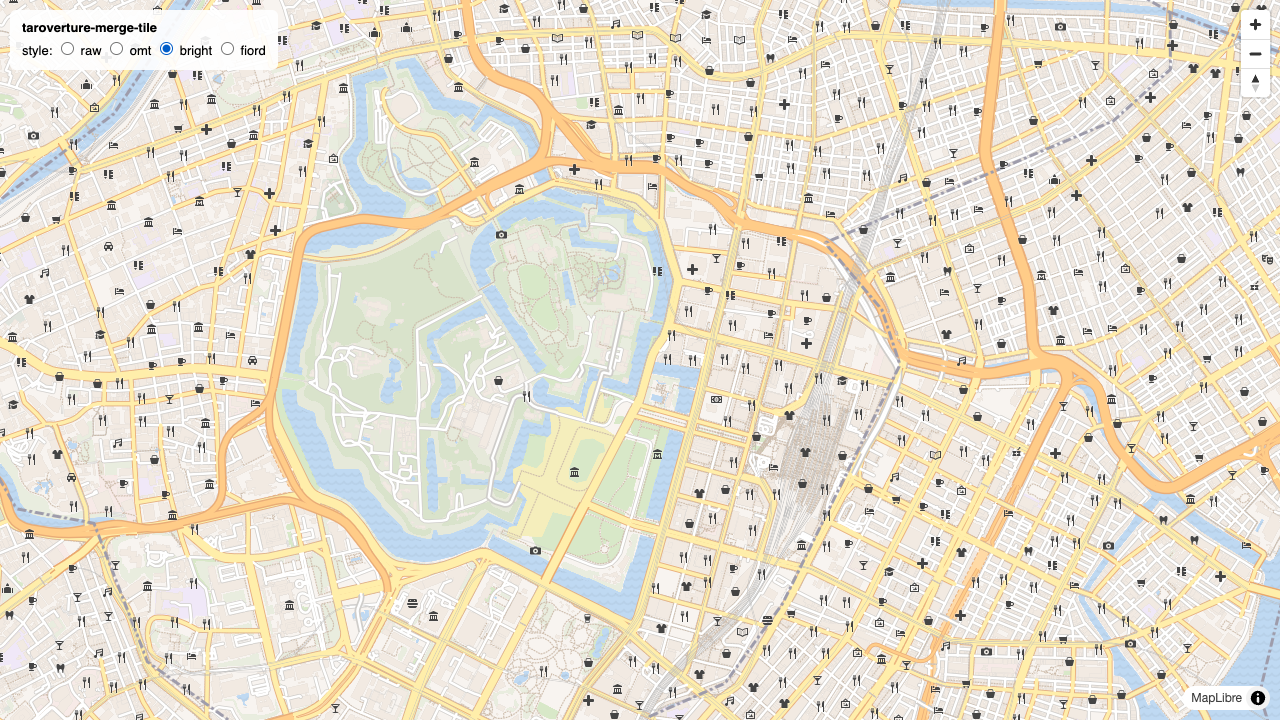
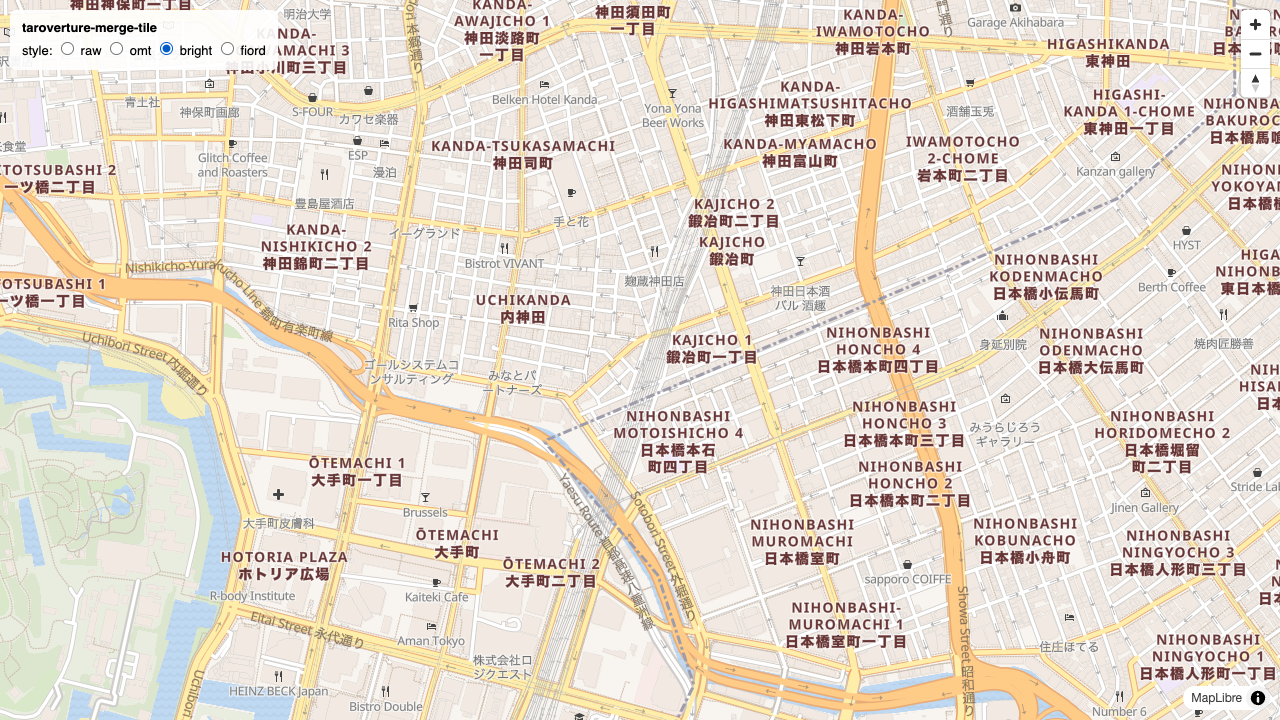
Add name:latin/name:nonlatin for OMT style compatibility
- OSM Bright 等の text-field "{name:latin} {name:nonlatin}" が空に評価され、道路名・地名・POI 名が表示されなかった問題の修正
- name:latin = en -> ja-Latn -> ASCII primary、name:nonlatin = ja -> 非 ASCII primary。namesOf 経由の全レイヤーに効く
- 自前 omt スタイルに road-name レイヤー (symbol-placement: line) を追加
- 既知の制限に追記: Overture segment は交差点単位で細切れのため線ラベルの置ける箇所が少ない (本家 OMT は linemerge 済み)

diff --git a/test/names.test.ts b/test/names.test.ts
@@ -1,0 +1,46 @@
+import { test } from "node:test";
+import assert from "node:assert/strict";
+import { namesOf } from "../src/transform/omt/names.js";
+
+test("namesOf: name:latin は common.en を優先する", () => {
+  const out = namesOf({
+    "@name": "神田警察通り",
+    names: '{"common":{"en":"Kanda Keisatsu Dōri","ja":"神田警察通り"},"primary":"神田警察通り"}',
+  });
+  assert.equal(out?.["name:latin"], "Kanda Keisatsu Dōri");
+  assert.equal(out?.["name:nonlatin"], "神田警察通り");
+});
+
+test("namesOf: en がなければ ja-Latn を name:latin に使う", () => {
+  const out = namesOf({
+    "@name": "九段北二丁目",
+    names: '{"common":{"ja-Latn":"Kudan-Kita 2-chōme","ja":"九段北二丁目"},"primary":"九段北二丁目"}',
+  });
+  assert.equal(out?.["name:latin"], "Kudan-Kita 2-chōme");
+});
+
+test("namesOf: primary が ASCII なら name:latin にフォールバック", () => {
+  const out = namesOf({ "@name": "RIMOWA" });
+  assert.equal(out?.["name:latin"], "RIMOWA");
+  assert.equal(out?.["name:nonlatin"], undefined);
+});
+
+test("namesOf: 非 ASCII の primary は name:nonlatin にフォールバック", () => {
+  const out = namesOf({ "@name": "東京駅" });
+  assert.equal(out?.["name:latin"], undefined);
+  assert.equal(out?.["name:nonlatin"], "東京駅");
+});
+
+test("namesOf: 既存フィールド (name/name_en/name:ja) は変わらない", () => {
+  const out = namesOf({
+    "@name": "東京駅",
+    names: '{"common":{"en":"Tokyo Station","ja":"東京駅"},"primary":"東京駅"}',
+  });
+  assert.equal(out?.name, "東京駅");
+  assert.equal(out?.name_en, "Tokyo Station");
+  assert.equal(out?.["name:ja"], "東京駅");
+});
+
+test("namesOf: 名前がなければ null", () => {
+  assert.equal(namesOf({}), null);
+});

diff --git a/src/transform/omt/names.ts b/src/transform/omt/names.ts
@@ -14,6 +14,9 @@ export function parseJson(v: unknown): unknown {
   }
 }
 
+// eslint-disable-next-line no-control-regex
+const ASCII_ONLY = /^[\x00-\x7F]+$/;
+
 export function namesOf(properties: Properties): Record<string, string> | null {
   const name = properties["@name"];
   if (typeof name !== "string" || name === "") return null;
@@ -21,10 +24,23 @@ export function namesOf(properties: Properties): Record<string, string> | null {
   const parsed = parseJson(properties.names) as
     | { common?: Record<string, unknown> }
     | undefined;
-  const common = parsed?.common;
-  if (common) {
-    if (typeof common.en === "string") out.name_en = common.en;
-    if (typeof common.ja === "string") out["name:ja"] = common.ja;
-  }
+  const common = parsed?.common ?? {};
+  if (typeof common.en === "string") out.name_en = common.en;
+  if (typeof common.ja === "string") out["name:ja"] = common.ja;
+
+  // OMT 慣習の name:latin / name:nonlatin。既存スタイル (OSM Bright 等) の
+  // text-field "{name:latin} {name:nonlatin}" がそのまま機能するために必要
+  const latin =
+    typeof common.en === "string"
+      ? common.en
+      : typeof common["ja-Latn"] === "string"
+        ? (common["ja-Latn"] as string)
+        : ASCII_ONLY.test(name)
+          ? name
+          : undefined;
+  const nonlatin =
+    typeof common.ja === "string" ? common.ja : !ASCII_ONLY.test(name) ? name : undefined;
+  if (latin !== undefined) out["name:latin"] = latin;
+  if (nonlatin !== undefined) out["name:nonlatin"] = nonlatin;
   return out;
 }

diff --git a/docs/index.html b/docs/index.html
@@ -231,6 +231,23 @@
             },
           },
           {
+            id: "road-name",
+            type: "symbol",
+            source: "merged",
+            "source-layer": "transportation_name",
+            layout: {
+              "symbol-placement": "line",
+              "text-field": ["get", "name"],
+              "text-font": ["Noto Sans CJK JP Regular"],
+              "text-size": 11,
+            },
+            paint: {
+              "text-color": "#555555",
+              "text-halo-color": "#ffffff",
+              "text-halo-width": 1.5,
+            },
+          },
+          {
             id: "poi-label",
             type: "symbol",
             source: "merged",